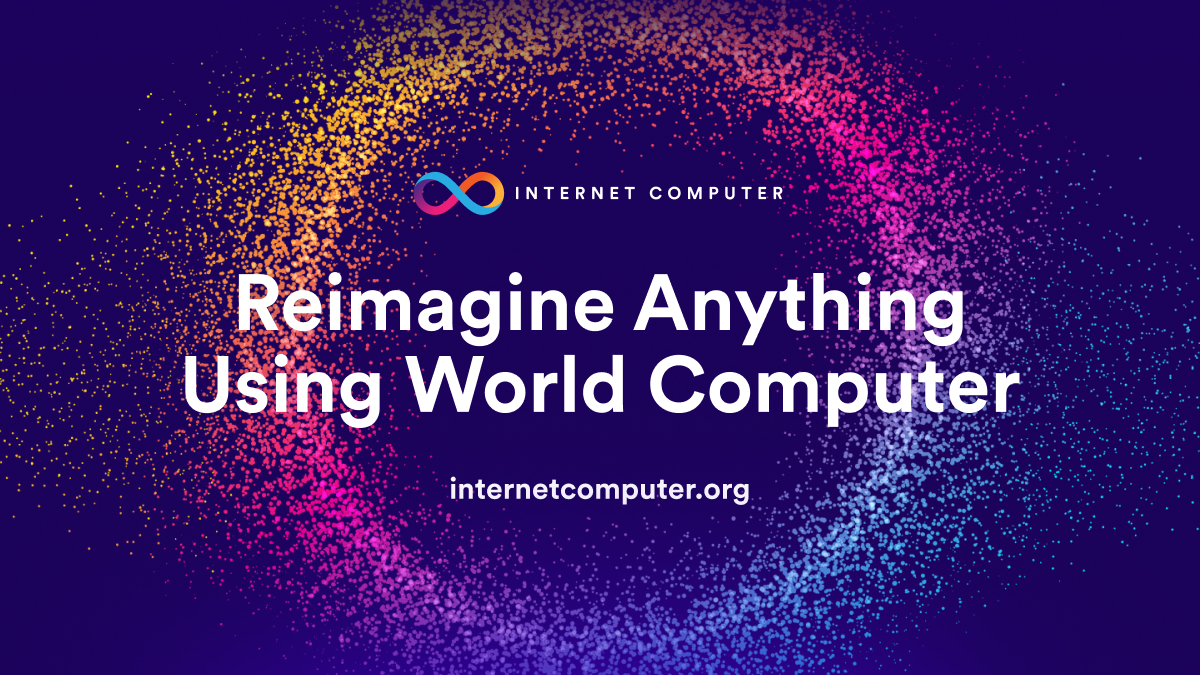
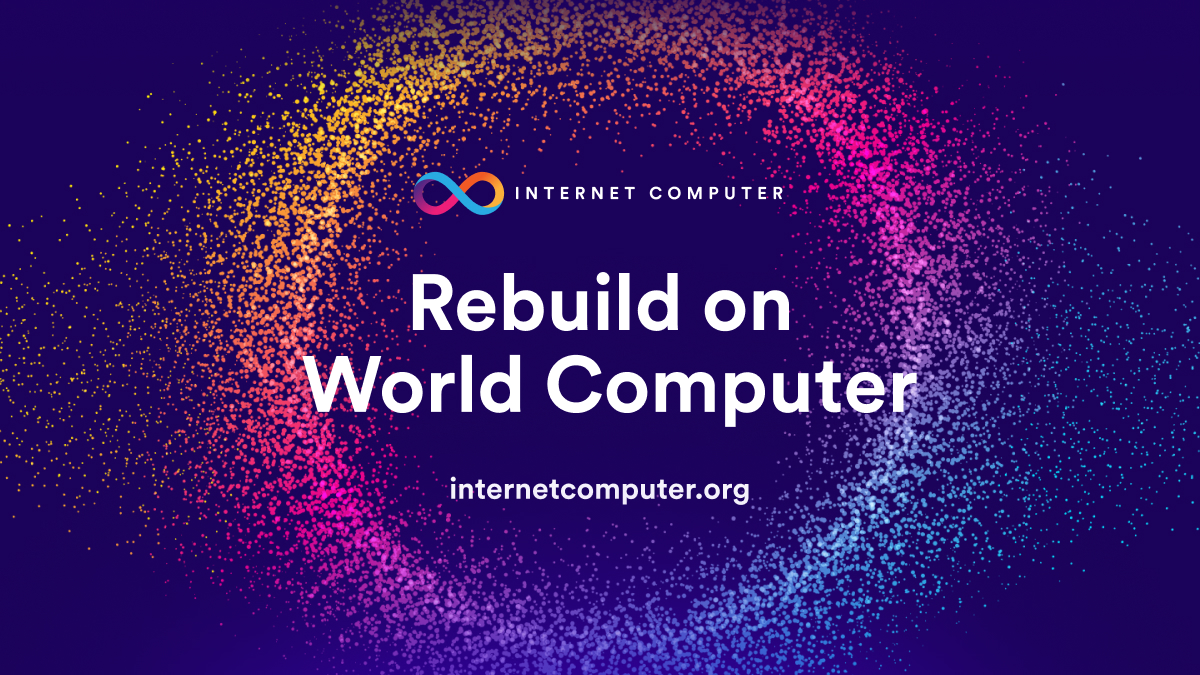
update network stats (#771)
* Updated Copy based on Dom's suggestions

* Updated share image

* Added links

* update network stats

* update tooltip of cycles/s

* cleanup

Changed region(s): [[0.1542, 0.4044, 0.8633, 0.6533]]

diff --git a/src/components/LandingPage/Dashboard/index.tsx b/src/components/LandingPage/Dashboard/index.tsx
@@ -7,6 +7,8 @@ import { animate, motion, useAnimation } from "framer-motion";
 import { useInView } from "react-intersection-observer";
 import {
   getBlockCount,
+  getCanisterCount,
+  getCyclesBurnRate,
   getTransactionRate,
 } from "@site/src/utils/network-stats";
 import clsx from "clsx";
@@ -71,7 +73,12 @@ function AnimatedStatistic({ title, currentValue, tooltip, precision }) {
   );
 }
 
-function Statistic({ title, currentValue, tooltip }) {
+const Statistic: React.FC<{
+  title: string;
+  currentValue: React.ReactNode;
+  tooltip: React.ReactNode;
+  subscript?: React.ReactNode;
+}> = ({ title, currentValue, tooltip, subscript }) => {
   return (
     <motion.div variants={item} className={styles.container}>
       <div className={styles.titleContainer}>
@@ -84,19 +91,32 @@ function Statistic({ title, currentValue, tooltip }) {
         </div>
       </div>
       <span className={styles.value}>{currentValue}</span>
+      {subscript && (
+        <span className="block tw-lead-sm text-black-60">{subscript}</span>
+      )}
     </motion.div>
   );
-}
+};
+
+const formatInteger = new Intl.NumberFormat("en-US", {
+  maximumFractionDigits: 0,
+}).format;
 
 function Dashboard() {
   const [stats, setStats] = useState<{
     blockCount: number;
+    canisters: number;
+    cyclesBurnRate: number;
     transactionRate: number;
     cost: number;
+    xdrPrice: number;
   }>({
-    blockCount: 847458088,
+    blockCount: 0,
+    canisters: 0,
+    cyclesBurnRate: 0,
     transactionRate: 0,
     cost: 0.46,
+    xdrPrice: 1.31597,
   });
 
   const controls = useAnimation();
@@ -107,17 +127,27 @@ function Dashboard() {
     }
   }, [controls, inView]);
 
+  const globalData = useGlobalData();
+  const icpPrice = globalData["icp-price"]["default"] as number;
+
   const fetchData = useCallback(async () => {
-    const [blockCount, transactionRate] = await Promise.all([
-      getBlockCount(),
-      getTransactionRate(),
-    ]);
-    setStats({
+    const [blockCount, canisters, transactionRate, cyclesBurnRate] =
+      await Promise.all([
+        getBlockCount(),
+        getCanisterCount(),
+        getTransactionRate(),
+        getCyclesBurnRate(),
+      ]);
+
+    setStats((v) => ({
       blockCount,
+      canisters,
       transactionRate,
-      cost: 0.46,
-    });
-  }, []);
+      cyclesBurnRate,
+      cost: v.cost,
+      xdrPrice: v.xdrPrice,
+    }));
+  }, [setStats]);
 
   useEffect(() => {
     fetchData();
@@ -151,24 +181,30 @@ function Dashboard() {
       >
         <a className={styles.anchor} id="dashboard" />
         <div className={styles.grid}>
-          <AnimatedStatistic
-            title="Block count"
-            currentValue={stats.blockCount}
-            tooltip={"The total number of blocks finalized since genesis."}
-            precision={0}
+          <Statistic
+            title="Transaction Rate"
+            currentValue={`${formatInteger(
+              stats.transactionRate * 3400 * 24
+            )} TX/day`}
+            subscript={`${formatInteger(stats.transactionRate)} TX/sec`}
+            tooltip={"The number of transactions being processed each day."}
           />
           <Statistic
-            title="Smart contract memory"
-            currentValue={`$${stats.cost} GB/month`}
-            tooltip={
-              "The cost of storing 1GB of data in a canister smart contract."
-            }
+            title="Canisters (smart contracts/dapps)"
+            currentValue={formatInteger(stats.canisters)}
+            tooltip={"The total number of canisters running."}
           />
-          <AnimatedStatistic
-            title="Transactions/s"
-            currentValue={stats.transactionRate}
-            tooltip={"The number of transactions being processed each second."}
-            precision={0}
+          <Statistic
+            title="Cycles Burn Rate"
+            currentValue={`${formatInteger(stats.cyclesBurnRate)} cycles/s`}
+            subscript={`≈${(
+              ((stats.cyclesBurnRate / 1_000_000_000_000) *
+                stats.xdrPrice *
+                3600 *
+                24) /
+              icpPrice
+            ).toFixed(1)} ICP/day`}
+            tooltip={"The total amount of cycles burned each second."}
           />
         </div>
         <motion.div variants={item}>

diff --git a/src/components/LandingPage/HeroSection/index.tsx b/src/components/LandingPage/HeroSection/index.tsx
@@ -14,8 +14,8 @@ export default function Hero(): JSX.Element {
           className="tw-heading-60 md:tw-heading-1 mb-6 md:mb-16 text-transparent bg-clip-text gradient-text"
           variants={transitions.item}
         >
-          A World Computer blockchain running
-          <br className="hidden md:inline" /> at webspeed
+          Limitless, Web-serving World Computer blockchain
+          {/* <br className="hidden md:inline" /> at webspeed */}
         </AnimateSpawn>
         <div className="md:ml-3/10">
           <AnimateSpawn
@@ -23,13 +23,13 @@ export default function Hero(): JSX.Element {
             className="tw-lead-sm md:tw-lead mb-8"
             variants={transitions.item}
           >
-            The Internet Computer (ICP) is a World Computer that provides a
-            complete IT stack on which any online system or Web3 service can be
-            built in a fully decentralized form, 100% on-chain. ICP is the only
-            blockchain with smart contracts that serve web experiences, create
-            transactions on other chains, directly integrate with Web2 APIs
-            without oracles, and run 20,000x more efficiently. No centralized
-            cloud. Simply powered by breakthrough Chain-key Cryptography.
+            The Internet Computer (ICP) is the first World Computer blockchain, 
+            powered by innovations in cryptography and computer science derived from <Link href="https://wiki.internetcomputer.org/wiki/History" className="link-subtle">deep crypto research begun in 2015</Link>. 
+            It is a limitless blockchain that runs with 20,000X more efficiency than the next best,
+            and hosts smart contract code that directly serves web experiences to end users, interacts with Web2, 
+            and creates signed transactions that run on other blockchains. It supports end-to-end decentralization, 
+            in which traditional IT, such as Big Tech’s cloud services, can be 
+            completely replaced by blockchain smart contracts…
           </AnimateSpawn>
           <AnimateSpawn
             el={motion.p}

diff --git a/tailwind.config.js b/tailwind.config.js
@@ -169,6 +169,7 @@ module.exports = {
                 '.button-outline-white': '@apply inline-block bg-transparent rounded-xl border-2 border-white border-solid text-white tw-heading-7-caps py-[14px] px-6 uppercase hover:no-underline hover:bg-white hover:border-white hover:text-infinite transition-colors',
                 '.button-fancy': '@apply inline-flex gap-6 hover:gap-8 transition-[gap] items-center cursor-pointer from-infinite via-infinite to-razzmatazz rounded-xl text-white tw-heading-7-caps py-4 px-6 hover:no-underline hover:text-white bg-gradient-100',
                 '.button-small': '@apply tw-title-navigation-on-page px-3 py-[6px] normal-case',
+                '.link-subtle': '@apply text-infinite hover:text-black hover:no-underline',
                 '.link-primary': '@apply tw-heading-6 text-infinite hover:text-black hover:no-underline',
                 '.link-white': '@apply tw-heading-6 text-white hover:text-white-60 hover:no-underline',
                 '.link-primary-light': '@apply tw-heading-6 text-white hover:text-white-60 hover:no-underline',

diff --git a/src/utils/network-stats.ts b/src/utils/network-stats.ts
@@ -34,6 +34,19 @@ export function getTransactionRate(): Promise<number> {
     .then((res) => +res.message_execution_rate[0][1]);
 }
 
+export function getCyclesBurnRate(): Promise<number> {
+  return fetch(
+    "https://ic-api.internetcomputer.org/api/metrics/cycle-burn-rate"
+  )
+    .then(
+      (res) =>
+        res.json() as Promise<{
+          cycle_burn_rate: [timestamp: number, rate: string][];
+        }>
+    )
+    .then((res) => +res.cycle_burn_rate[0][1]);
+}
+
 export function getBlockCount(): Promise<number> {
   return fetch("https://ic-api.internetcomputer.org/api/v3/block-heights")
     .then(

diff --git a/src/components/LandingPage/Dashboard/index.module.css b/src/components/LandingPage/Dashboard/index.module.css
@@ -84,8 +84,8 @@
 
 .value {
   font-weight: 700;
-  font-size: 40px;
-  line-height: 50px;
+  font-size: 32px;
+  line-height: 44px;
 }
 
 .informationContainer {
@@ -121,7 +121,6 @@
 }
 
 @media screen and (max-width: 996px) {
-
   .main {
     margin-bottom: 16px;
   }
@@ -132,7 +131,7 @@
 
   .container {
     padding: 24px 24px 15px 24px;
-    height: 112px;
+    height: 132px;
   }
 
   .value {

diff --git a/src/components/LandingPage/PreHero/index.tsx b/src/components/LandingPage/PreHero/index.tsx
@@ -274,9 +274,9 @@ export default function PreHero({
               animationPlayState: start ? "running" : "paused",
             }}
           >
-           Reimagine Anything
+            Rebuild on
             <br />
-            Using World Computer
+            World Computer
           </h1>
         </div>
         <img
